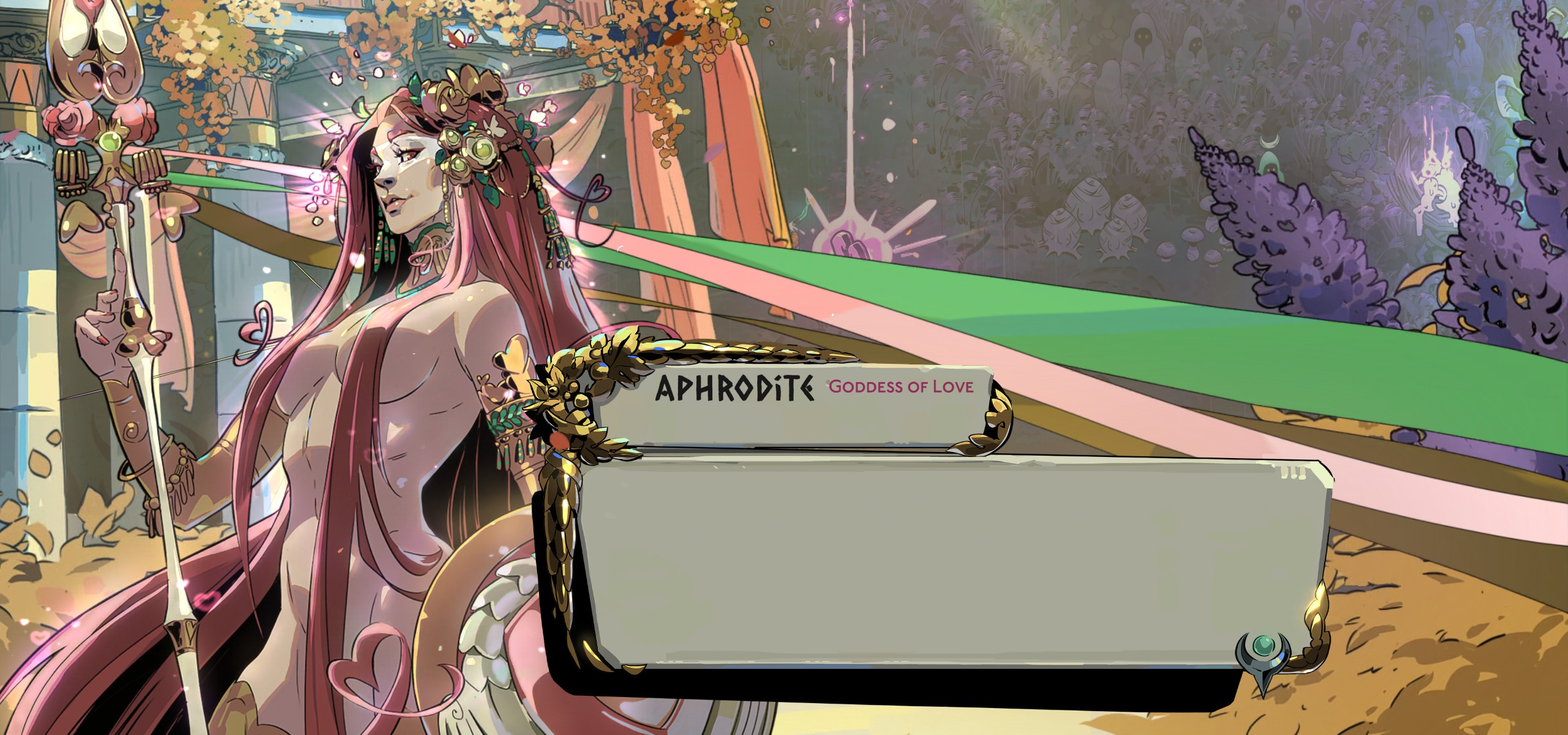
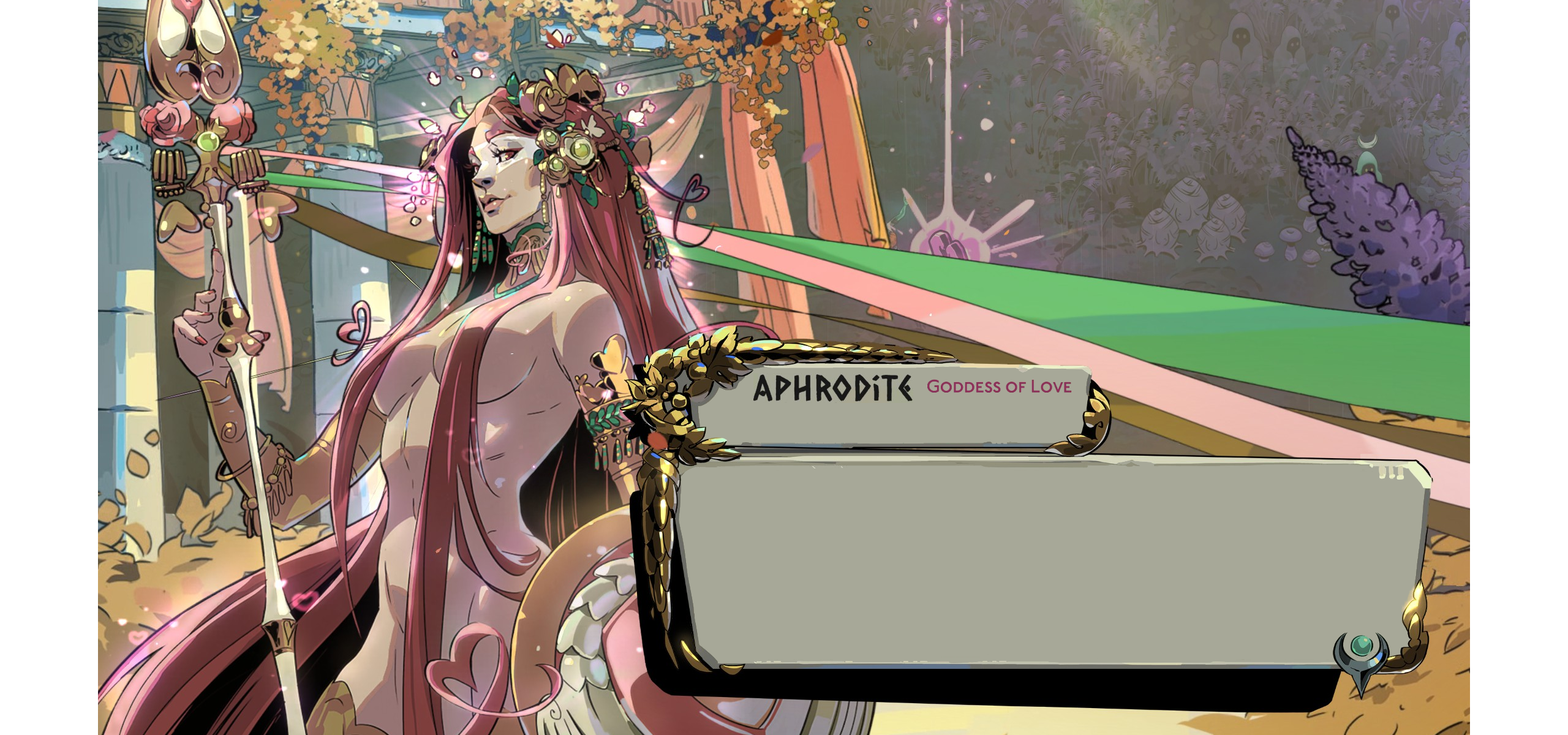
Improve the Ancient scene.

diff --git a/AphroditeAncientCode/Patches/AphroditeAncient_AdjustLayout_Patch.cs b/AphroditeAncientCode/Patches/AphroditeAncient_AdjustLayout_Patch.cs
@@ -1,4 +1,5 @@
-using MegaCrit.Sts2.Core.Models;
+using System.Reflection.Emit;
+using MegaCrit.Sts2.Core.Models;
 
 namespace AphroditeAncient.AphroditeAncientCode.Patches;
 
@@ -10,31 +11,29 @@ using System.Runtime.CompilerServices;
 [HarmonyPatch(typeof(NAncientEventLayout), "SetDialogueLineAndAnimate")]
 public static class AphroditeAncient_AdjustLayout_Patch
 {
-    private const float XOffset = 150f;
+    private const float XOffset = 185;
+    private const float YOffset = -5f;
+    private const float ScaleAmount = 1.0f;
+    private const float OriginalSpacing = 10f;
 
     private static readonly ConditionalWeakTable<NAncientEventLayout, Box> State = new();
 
-    private sealed class Box
+    private static bool IsTargetEvent(NAncientEventLayout layout)
     {
-        public float BaseContentX;
-        public float BaseContainerWidth;
+        var ancientEvent = Traverse.Create(layout)
+            .Field("_ancientEvent")
+            .GetValue<AncientEventModel>();
 
-        public Box(float baseContentX, float baseContainerWidth)
-        {
-            BaseContentX = baseContentX;
-            BaseContainerWidth = baseContainerWidth;
-        }
+        return ancientEvent.Id == ModelDb.GetId<Ancients.AphroditeAncient>();
     }
 
     static void Prefix(NAncientEventLayout __instance)
     {
+        if (!IsTargetEvent(__instance))
+            return;
+
         var t = Traverse.Create(__instance);
 
-        var ancientEvent = t.Field("_ancientEvent").GetValue<AncientEventModel>();
-
-        if (ancientEvent.Id != ModelDb.GetId<Ancients.AphroditeAncient>())
-            return;
-        
         var content = t.Field("_content").GetValue<VBoxContainer>();
         var contentContainer = t.Field("_contentContainer").GetValue<Control>();
 
@@ -52,10 +51,57 @@ public static class AphroditeAncient_AdjustLayout_Patch
             content.Position.Y
         );
 
-        // Prevent right-side clipping.
+        content.Scale = new Vector2(ScaleAmount, ScaleAmount);
+
+        contentContainer.ClipContents = false;
+
+        float extraWidth = Mathf.Abs(XOffset) * 2f;
+
         contentContainer.Size = new Vector2(
-            state.BaseContainerWidth + Mathf.Abs(XOffset),
+            state.BaseContainerWidth + extraWidth,
             contentContainer.Size.Y
         );
+    }
+
+    private static float GetSpacingForEvent(NAncientEventLayout layout, float originalSpacing)
+    {
+        if (!IsTargetEvent(layout))
+            return originalSpacing;
+
+        return originalSpacing - YOffset;
+    }
+
+    static IEnumerable<CodeInstruction> Transpiler(IEnumerable<CodeInstruction> instructions)
+    {
+        foreach (var code in instructions)
+        {
+            if (code.opcode == OpCodes.Ldc_R4 &&
+                code.operand is float f &&
+                f == OriginalSpacing)
+            {
+                yield return new CodeInstruction(OpCodes.Ldarg_0);
+                yield return new CodeInstruction(OpCodes.Ldc_R4, OriginalSpacing);
+                yield return CodeInstruction.Call(
+                    typeof(AphroditeAncient_AdjustLayout_Patch),
+                    nameof(GetSpacingForEvent)
+                );
+            }
+            else
+            {
+                yield return code;
+            }
+        }
+    }
+
+    private sealed class Box
+    {
+        public readonly float BaseContainerWidth;
+        public readonly float BaseContentX;
+
+        public Box(float x, float width)
+        {
+            BaseContentX = x;
+            BaseContainerWidth = width;
+        }
     }
 }
